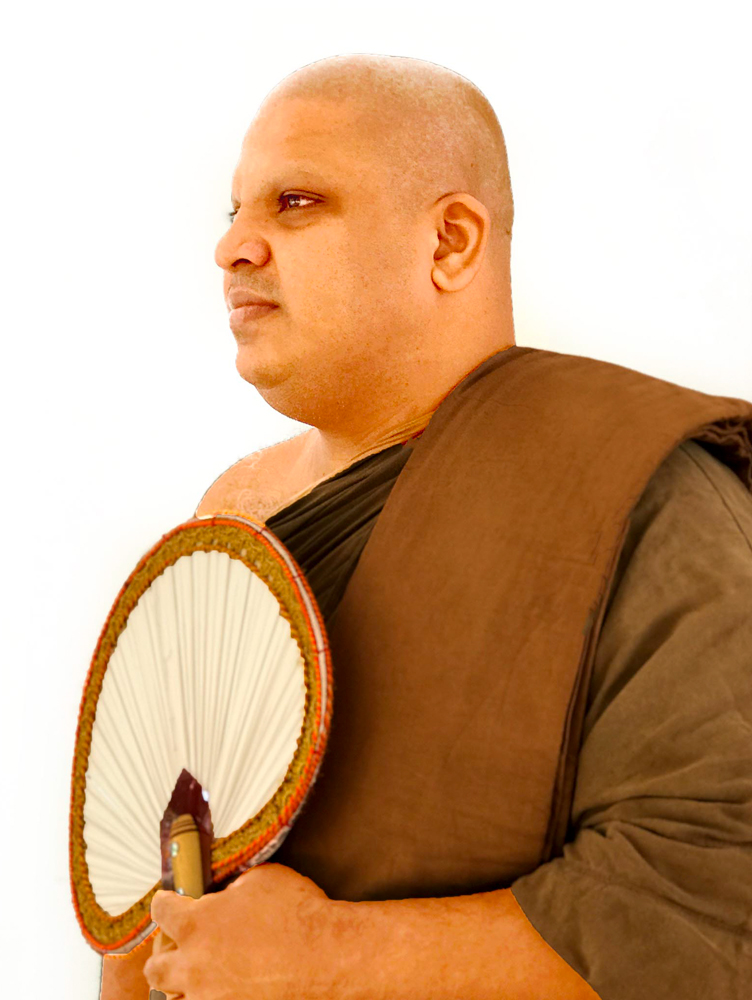
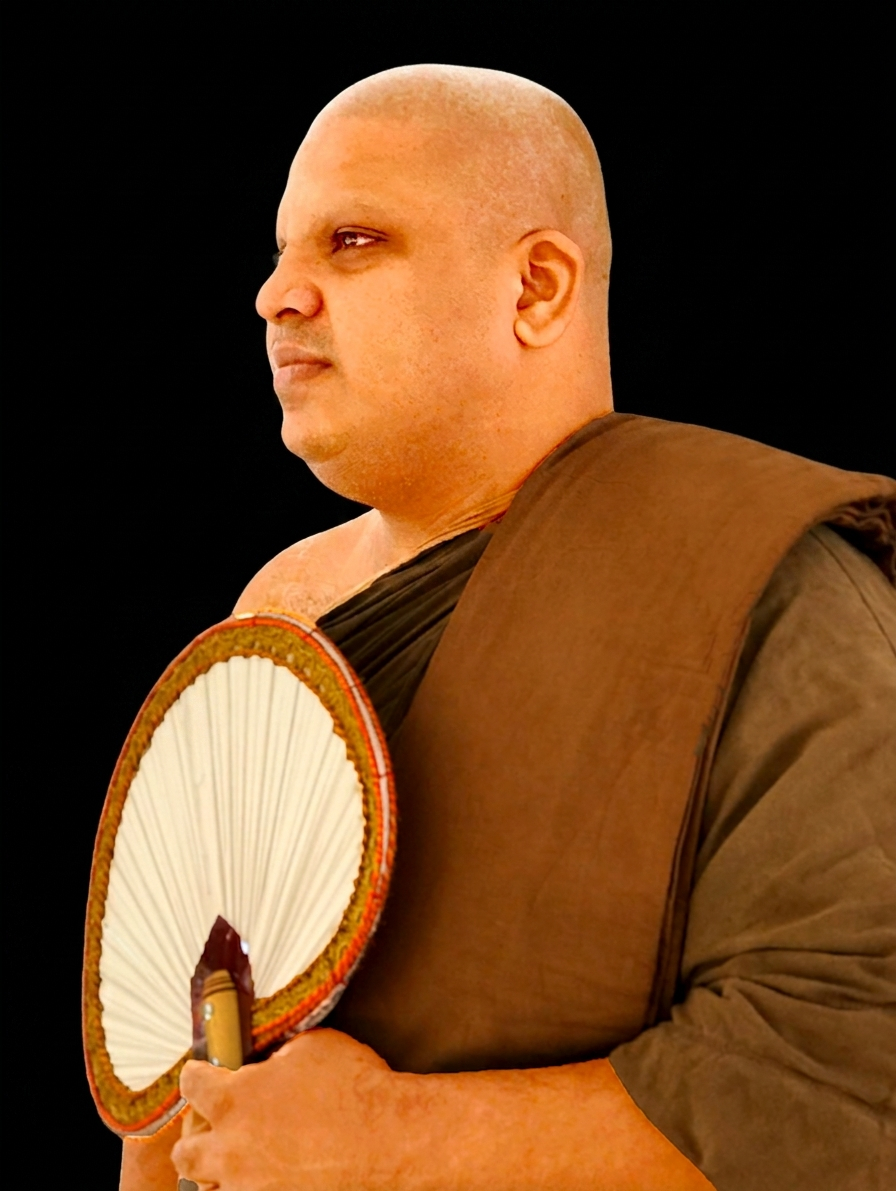
Monastery: update Ven. Ariyajeewa portrait to new photo
User replaced assets/ariyajeewa.jpg with a new version (black
background, 896x1191). Cache-bust the image reference (?v=2) so
browsers fetch the new file, and nudge focal position to 50% 20%.

diff --git a/monastery/index.html b/monastery/index.html
@@ -109,8 +109,8 @@
 
     <div class="chief">
       <div class="chief-portrait reveal">
-        <image-slot id="chief" shape="rect" fit="cover" position="50% 22%"
-          src="assets/ariyajeewa.jpg"
+        <image-slot id="chief" shape="rect" fit="cover" position="50% 20%"
+          src="assets/ariyajeewa.jpg?v=2"
           placeholder="Portrait of Ven. Ariyajeewa Thero"></image-slot>
         <span class="frame-tag">Abbot &amp; Teacher</span>
       </div>
